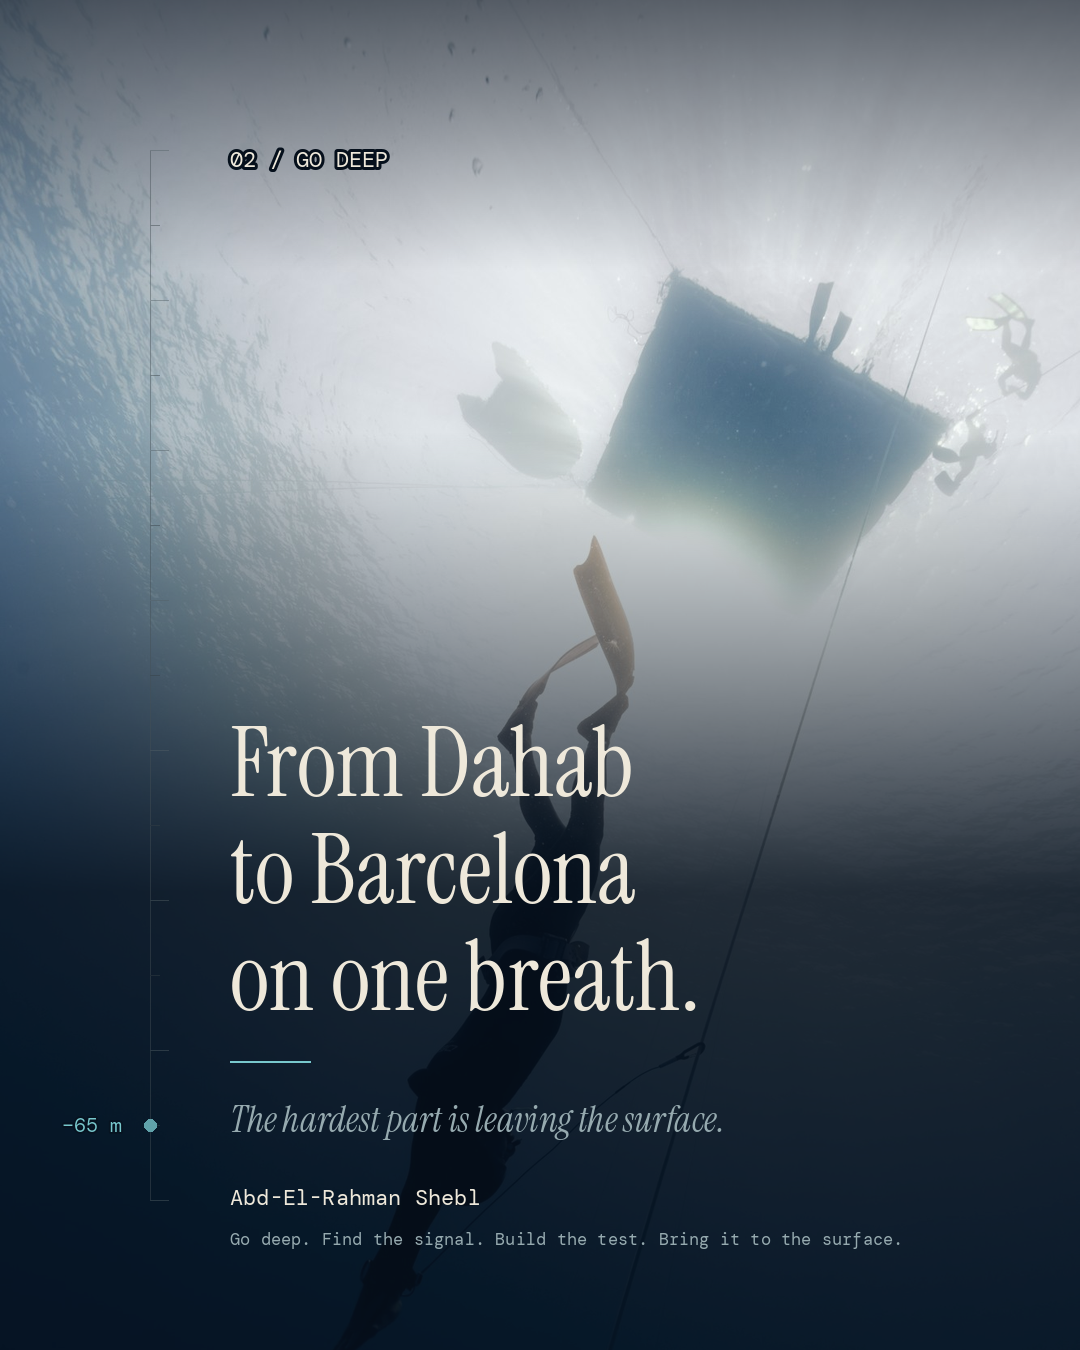
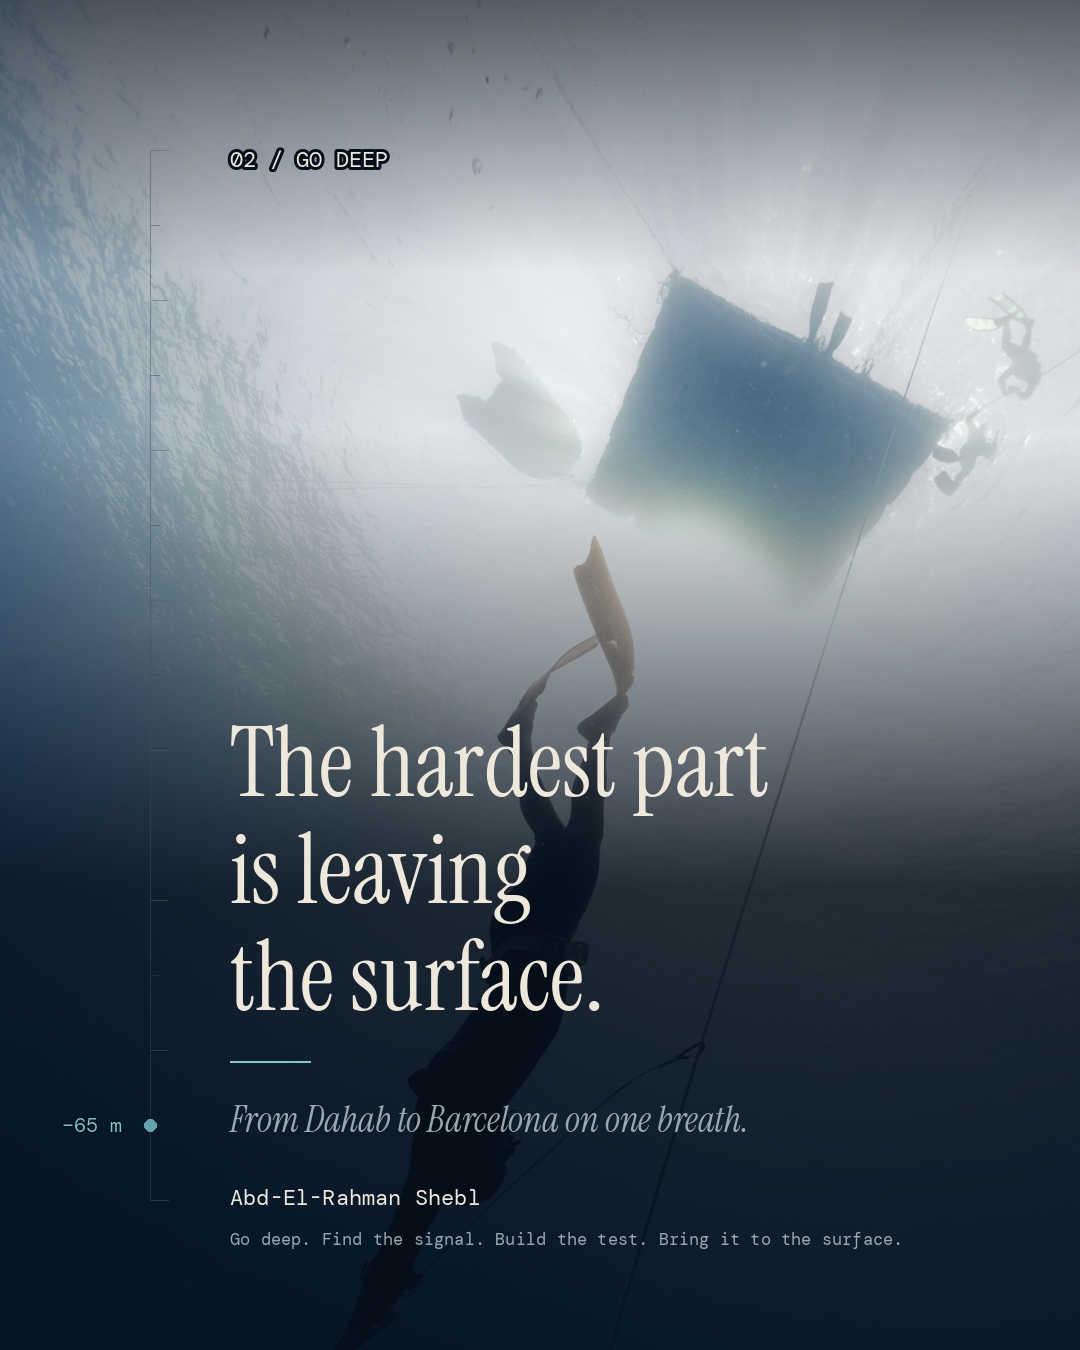
LinkedIn studio: post 07 headline back to leaving the surface, Dahab line as subline
Claude-Session: https://claude.ai/code/session_017LSm8ADBcaHVjFRtYg6f1o

Changed region(s): [[0.2139, 0.5289, 0.7028, 0.7467], [0.2139, 0.8089, 0.7028, 0.84]]

diff --git a/linkedin-studio/posts-log.md b/linkedin-studio/posts-log.md
@@ -13,7 +13,7 @@ Fill in results 48 h after posting. First review: Thu 3 Dec.
 | 04 | Professional | Tue 17 Nov 2026 | GO DEEP · TEAMS | 35 m | Why your team should learn to hold its breath. | top + clean | | | | | |
 | 05 | Personal | Thu 19 Nov 2026 | GO DEEP | 45 m | Never dive alone. Never build alone. | clean + graphic | | | | | |
 | 06 | Professional | Tue 24 Nov 2026 | GO DEEP · TEAMS | 55 m | One dives. One watches. Then you switch. | overlay | | | | | |
-| 07 | Personal | Thu 26 Nov 2026 | GO DEEP | 65 m | From Dahab to Barcelona on one breath. | overlay | | | | | |
+| 07 | Personal | Thu 26 Nov 2026 | GO DEEP | 65 m | The hardest part is leaving the surface. | overlay | | | | | |
 | 08 | Professional | Tue 1 Dec 2026 | FIND THE SIGNAL | 5 m | People don’t buy features. They buy feeling understood. | overlay | | | | | |
 | 09 | Personal | Thu 3 Dec 2026 | GO DEEP | 15 m | Decide on land. Not on the line. | overlay | | | | | |
 | 10 | Professional | Tue 8 Dec 2026 | GO DEEP · TEAMS | 25 m | Doing nothing is the hardest thing we train. | top | | | | | |
